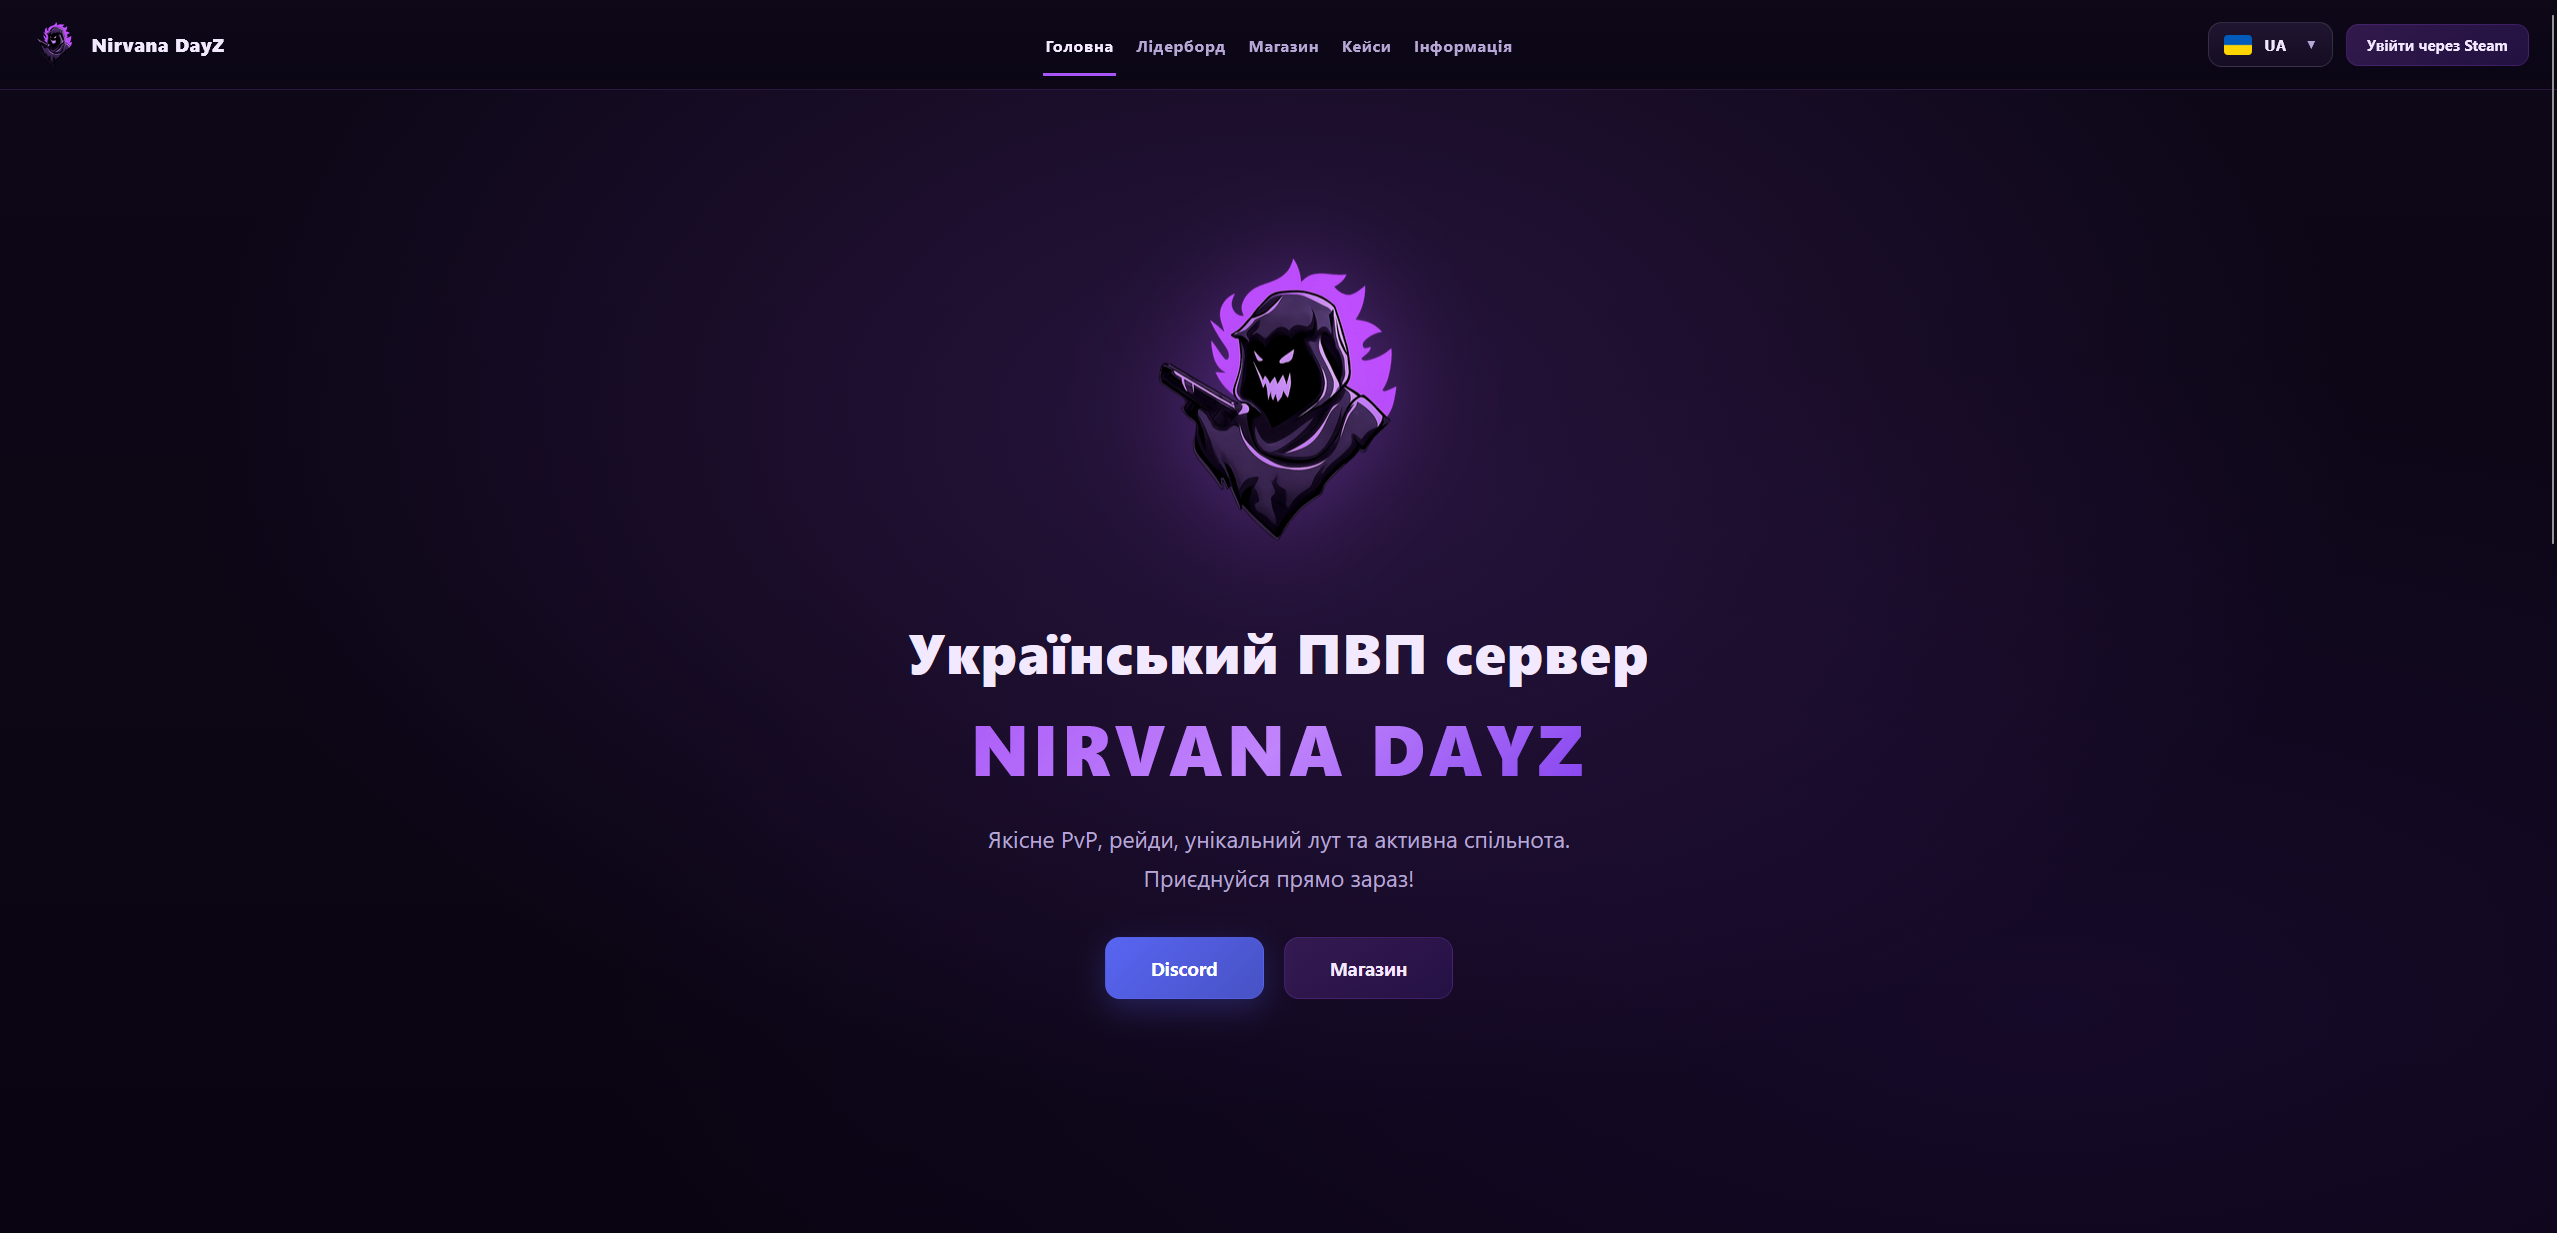
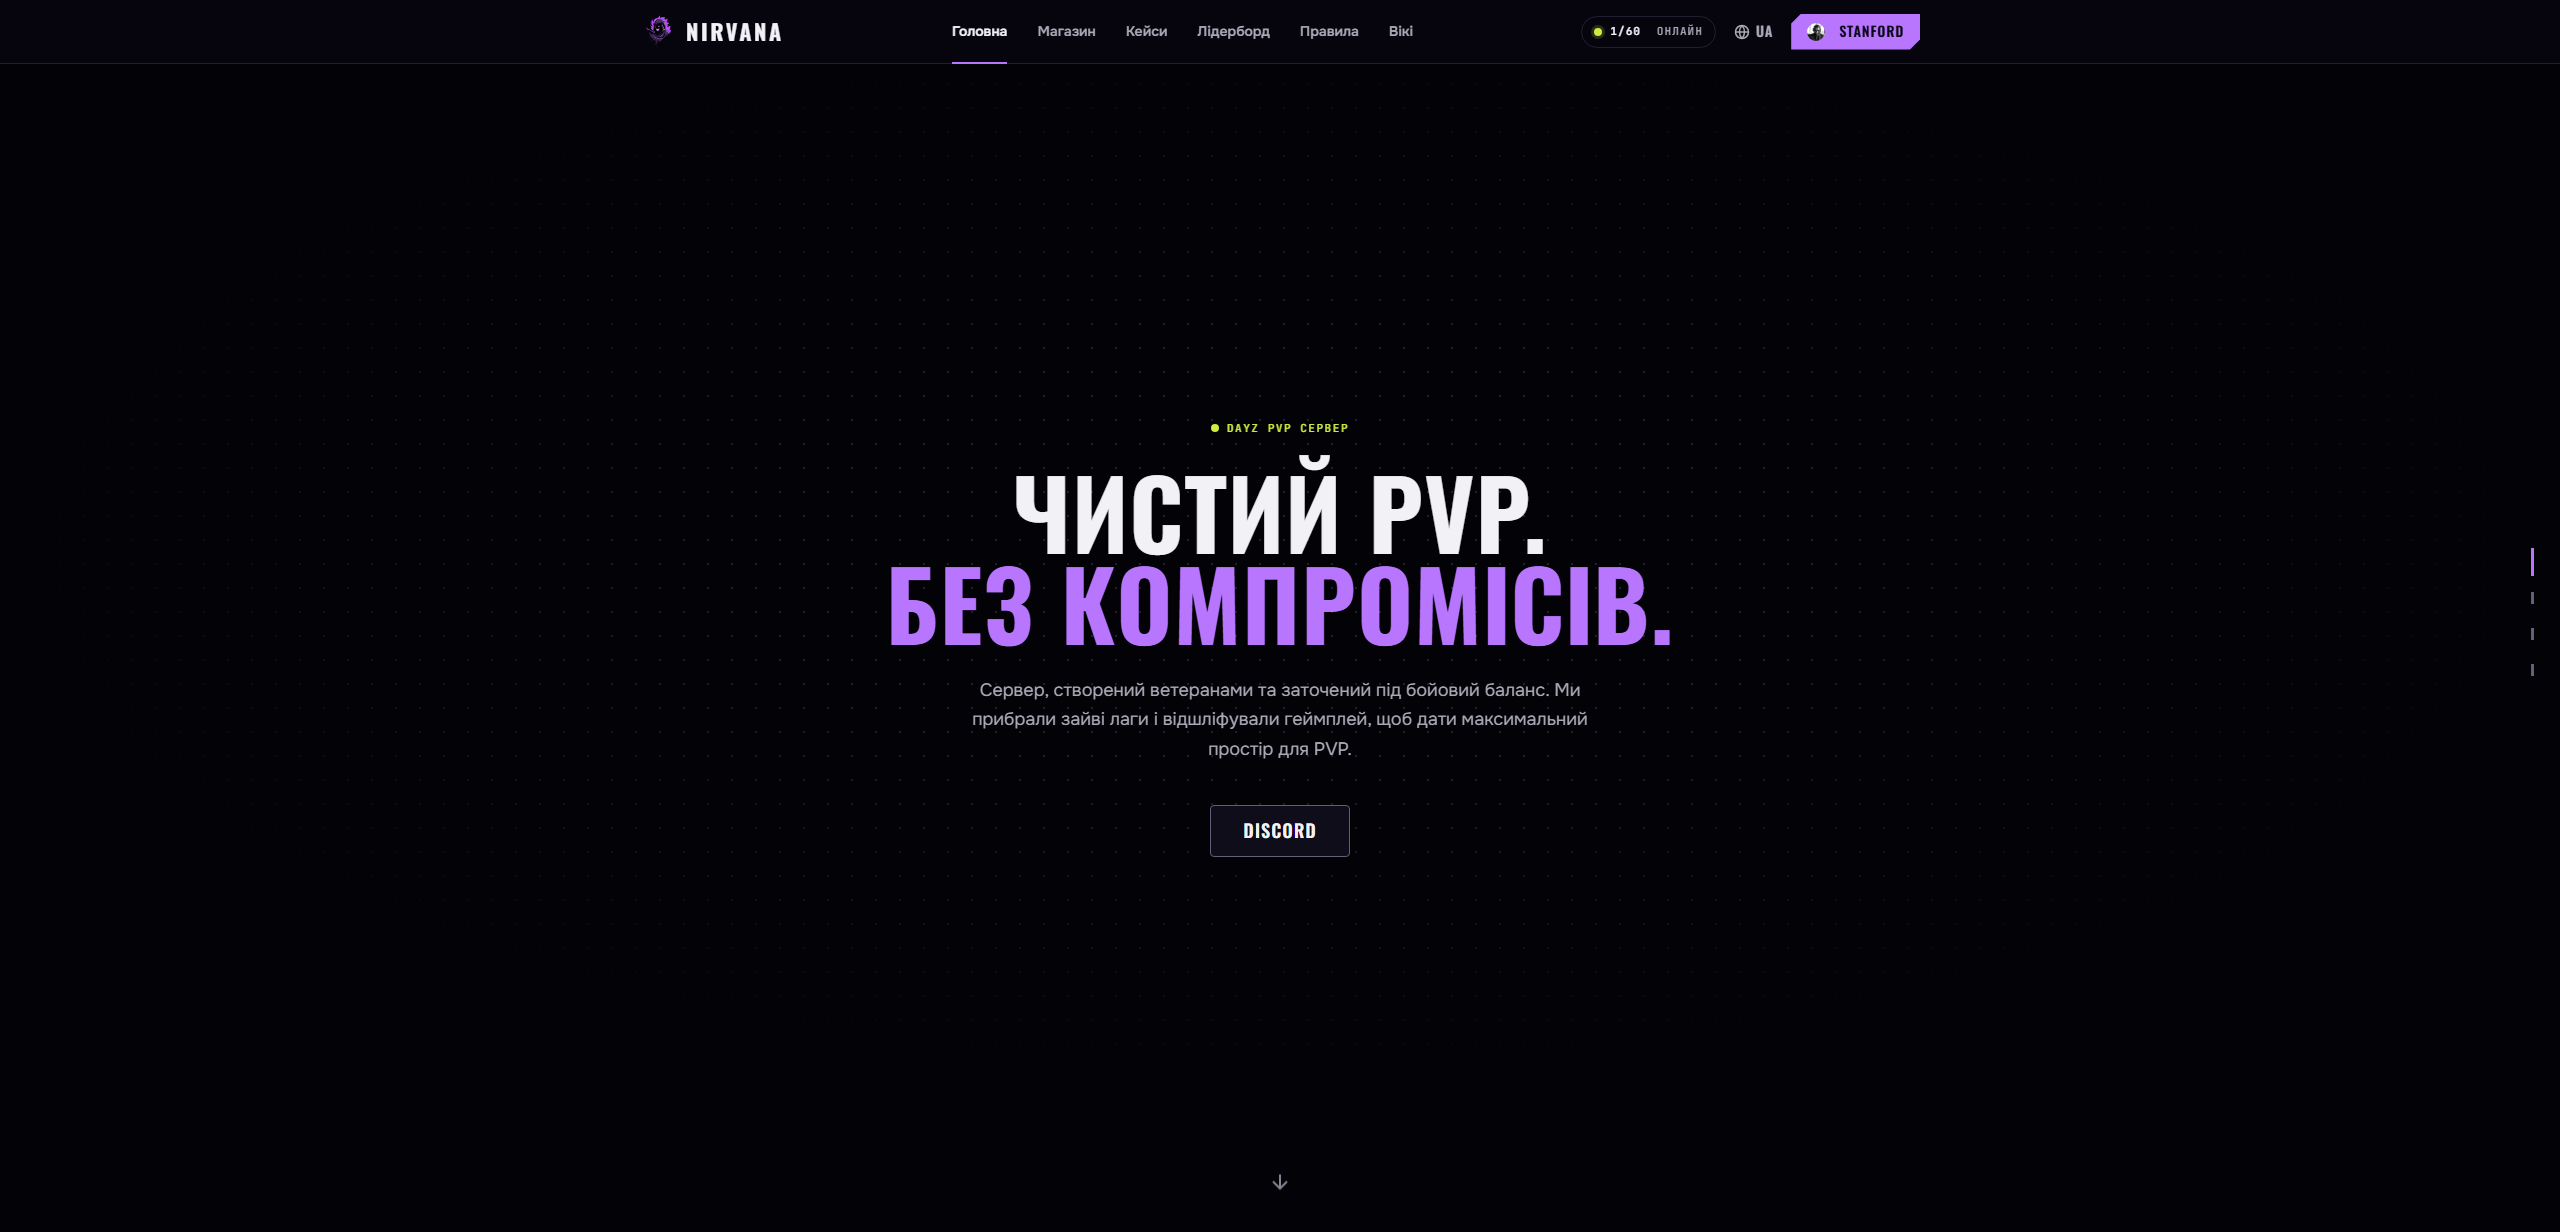
Update screenshots and docs for v1.1.0
- Fresh full-window screenshots of the redesigned site and admin panel (SteamIDs hidden)
- New: store, product checkout, case roulette and reward, account, leaderboards, wiki,
  daily case, JSON templates, channel translation, API key check, page content editor
- README (EN/UA): new site and admin features, channel translation in the bot
- Changelog (EN/UA): v1.1.0

diff --git a/README_ua.md b/README_ua.md
@@ -55,8 +55,18 @@ graph TD
 Нижче секція для демонстрації інтерфейсів.
 
 ### Веб-інтерфейс
-![Web Main 1](docs/web-main-1.png)
-![Web Main 2](docs/web-main-2.png)
+![Головна](docs/web-main-1.png)
+![Головна: лідерборди та живий онлайн](docs/web-main-2.png)
+![Головна: чому варто грати на Nirvana](docs/web-main-3.png)
+![Головна: Discord](docs/web-main-4.png)
+![Магазин](docs/web-shop.png)
+![Магазин: оформлення товару](docs/web-shop-product.png)
+![Кейси](docs/web-cases.png)
+![Рулетка кейсу](docs/web-cases-roulette.png)
+![Виграш з кейсу](docs/web-cases-result.png)
+![Акаунт гравця](docs/web-account.png)
+![Таблиця лідерів](docs/web-leaderboards.png)
+![Вікі](docs/web-wiki.png)
 
 ### Веб-інтерфейс Адмін Панелі
 ![Web Admin Dashboard](docs/web-admin-dashboard.png)
@@ -64,13 +74,16 @@ graph TD
 ![Web Admin Cases Editor](docs/web-admin-cases.png)
 ![Web Admin Players Info Manager](docs/web-admin-players.png)
 ![Web Admin Products Editor](docs/web-admin-products.png)
+![Web Admin JSON Templates](docs/web-admin-templates.png)
 ![Web Admin Categories](docs/web-admin-categories.png)
 ![Web Admin Case Editors](docs/web-admin-case-editors.png)
 ![Web Admin Spawn Kits Editor](docs/web-admin-spawn-kits.png)
 ![Web Admin Promocodes Editor](docs/web-admin-promocodes.png)
 ![Web Admin Sales Editor](docs/web-admin-sales-editor.png)
 ![Web Admin [Payment Methods]](docs/web-admin-payment-methods.png)
-![Web Admin Settings](docs/web-admin-settings.png)
+![Web Admin Переклад каналів](docs/web-admin-translate.png)
+![Web Admin Налаштування та перевірка API-ключів](docs/web-admin-settings.png)
+![Web Admin Контент сторінок (Вікі / Правила)](docs/web-admin-content.png)
 
 ### Веб-інтерфейс Щоденних кейсів
 ![Web Daily Case Feature](docs/web-daily-case-feature.png)
@@ -94,6 +107,8 @@ graph TD
 - Англомовна версія сайту.
 - Відображення статусу серверу.
 - Дошка пошани, там відображаються люди які внесли добровільні пожертви для серверу.
+- Новий дизайн сайту: повноекранні секції головної, магазин з картками та оформленням у дві колонки, рулетка кейсів у стилі CS з плавним гальмуванням і показом виграшу.
+- Сторінки «Вікі» та «Правила» редагуються з адмін-панелі.
 
 ### Функції Discord-бота
 - Бот, який показує онлайн сервера, серверний час та час до наступного рестарту.
@@ -103,6 +118,12 @@ graph TD
 - Discord-магазин, що має спільні товари з веб-магазином.
 - Автоматичне привітання користувачів та автоматичні ролі.
 - Кіл-фід з налаштовуваним текстом.
+- Зв'язки каналів для перекладу: обираєш 2+ Discord-канали з мовою для кожного, і кожне повідомлення перекладається в інші (Gemini, резерв — DeepL і Google Translate).
+
+### Функції адмін-панелі
+- Вибір каналів і ролей зі списку, який бот сам передає з Discord (токен бота на сайт не потрапляє).
+- Перевірка API-ключів в один клік: сайт по-справжньому звертається до кожного сервісу (Gemini, DeepL, Google Translate, Monobank, Donatello, CFTools) і показує, що працює, а що ні й чому.
+- Статус останнього перекладу прямо в панелі, без читання логів.
 
 ## Модулі екосистеми
 

diff --git a/README.md b/README.md
@@ -56,8 +56,18 @@ Below is a section for demonstrating interfaces.
 
 ### Web Interface
 
-![Web Main 1](docs/web-main-1.png)
-![Web Main 2](docs/web-main-2.png)
+![Home](docs/web-main-1.png)
+![Home: Leaderboards and Live Stats](docs/web-main-2.png)
+![Home: Why Play on Nirvana](docs/web-main-3.png)
+![Home: Discord](docs/web-main-4.png)
+![Store](docs/web-shop.png)
+![Store: Product Checkout](docs/web-shop-product.png)
+![Cases](docs/web-cases.png)
+![Case Roulette](docs/web-cases-roulette.png)
+![Case Reward](docs/web-cases-result.png)
+![Player Account](docs/web-account.png)
+![Leaderboards](docs/web-leaderboards.png)
+![Wiki](docs/web-wiki.png)
 
 ### Web Interface of Admin Panel
 ![Web Admin Dashboard](docs/web-admin-dashboard.png)
@@ -65,13 +75,16 @@ Below is a section for demonstrating interfaces.
 ![Web Admin Cases Editor](docs/web-admin-cases.png)
 ![Web Admin Players Info Manager](docs/web-admin-players.png)
 ![Web Admin Products Editor](docs/web-admin-products.png)
+![Web Admin JSON Templates](docs/web-admin-templates.png)
 ![Web Admin Categories](docs/web-admin-categories.png)
 ![Web Admin Case Editors](docs/web-admin-case-editors.png)
 ![Web Admin Spawn Kits Editor](docs/web-admin-spawn-kits.png)
 ![Web Admin Promocodes Editor](docs/web-admin-promocodes.png)
 ![Web Admin Sales Editor](docs/web-admin-sales-editor.png)
 ![Web Admin [Payment Methods]](docs/web-admin-payment-methods.png)
-![Web Admin Settings](docs/web-admin-settings.png)
+![Web Admin Channel Translation](docs/web-admin-translate.png)
+![Web Admin Settings and API Key Check](docs/web-admin-settings.png)
+![Web Admin Page Content (Wiki / Rules)](docs/web-admin-content.png)
 
 ### Web Interface of Daily Cases
 ![Web Daily Case Feature](docs/web-daily-case-feature.png)
@@ -95,6 +108,8 @@ Below is a section for demonstrating interfaces.
 - English-language version of the site.
 - Server status display.
 - Hall of fame showing people who made voluntary donations to the server.
+- Redesigned site: full-screen home sections, a card-style store with a two-column checkout, and a CS-style case roulette with smooth slow-down and reward reveal.
+- Wiki and rules pages edited from the admin panel.
 
 ### Discord bot features
 - Bot that shows server online, server time and time to next restart.
@@ -104,6 +119,12 @@ Below is a section for demonstrating interfaces.
 - Discord shop, sharing same products with web-site shop.
 - Automated greeting to users and automated roles.
 - Kill-feed with Manageable text.
+- Channel translation links: pick 2+ Discord channels with a language each, and every message is translated into the others (Gemini, with DeepL and Google Translate as fallbacks).
+
+### Admin panel features
+- Channel and role pickers filled with live data from Discord (the bot publishes its servers, channels and roles; no bot token on the website).
+- One-click API key check: every provider (Gemini, DeepL, Google Translate, Monobank, Donatello, CFTools) is called for real and the panel shows what works and why not.
+- Status of the last translation right in the panel, so failures don't need a trip to the logs.
 
 ## Ecosystem Modules
 

diff --git a/CHANGELOG_ua_.md b/CHANGELOG_ua_.md
@@ -67,3 +67,23 @@
 
 ## Виправлення
 - Кілфід: самогубство через F11 тепер коректно записується
+
+----------------------------------------------------------------------------------------------------------
+
+# v1.1.0
+## Релізовано
+- !!Новий дизайн сайту: повноекранні секції головної, магазин з картками та оформленням у дві колонки, оновлені сторінки акаунту, лідерборду та вікі
+- !!Новий вигляд рулетки кейсів: картки з фото та кольором рідкості, плавне гальмування, випадкова зупинка всередині виграшної картки й показ виграшу
+- !!Зв'язки каналів для перекладу в адмін-панелі: обираєш 2+ канали з мовою для кожного, переклад іде в усі боки
+- Вибір каналів і ролей Discord зі списку в адмін-панелі (бот сам передає свої сервери, канали й ролі у спільну базу)
+- Перевірка API-ключів в один клік: Gemini, DeepL, Google Translate, Monobank, Donatello, CFTools
+- Статус останнього перекладу в адмін-панелі
+- Gemini тепер використовує завжди актуальну модель і повторює запит при тимчасовому перевантаженні
+
+## Виправлення
+- Магазин: один клік «Купити» відправляв два запити на покупку, а в списку оплат був вимкнений PayPal
+- Магазин: покупцю більше не показуються службові поля (файл шаблону, тип видачі)
+- Адмін-панель: збереження налаштувань бота більше не псує ID каналів Discord
+- Переклад: ключ Gemini з конфігу ніколи не застосовувався, тож усі повідомлення тихо йшли через резервний перекладач
+- Сайт: у верхній панелі більше не з'являється SteamID замість імені, коли Steam обмежує запити (профілі кешуються)
+- Безпека: порожній список адмінів більше не дає доступ кожному, хто увійшов через Steam; прибрано старий шлях до адмінки, що обходив прихований

diff --git a/CHANGELOG.md b/CHANGELOG.md
@@ -66,3 +66,23 @@
 
 ## Bug Fixes
 - Killfeed: suicide via F11 is now recorded correctly
+
+----------------------------------------------------------------------------------------------------------
+
+# v1.1.0
+## Implemented
+- !!New website design: full-screen home sections, a card-style store with a two-column checkout, redesigned account, leaderboard and wiki pages
+- !!Case roulette redesign: picture cards with rarity colours, smooth slow-down, random landing inside the winning card and a reward reveal
+- !!Channel translation links in the admin panel: pick 2+ channels with a language each, messages are translated in every direction
+- Live Discord channel and role pickers in the admin panel (the bot publishes its servers, channels and roles to the shared database)
+- One-click API key check for Gemini, DeepL, Google Translate, Monobank, Donatello and CFTools
+- Status of the last translation shown in the admin panel
+- Gemini now uses an always-current model alias and retries once on temporary overload
+
+## Bug Fixes
+- Store: one click on "Buy" sent two purchase requests, and a disabled payment method (PayPal) was offered
+- Store: internal fields (template file, delivery type) are no longer shown to buyers
+- Admin panel: saving bot settings no longer corrupts Discord channel IDs
+- Translation: the Gemini key from the config was never applied, so every message silently went to the fallback translator
+- Website: the top bar no longer shows a raw SteamID when Steam throttles profile requests (profiles are cached)
+- Security: an empty admin list no longer gives admin access to every Steam login; the legacy admin URL that bypassed the hidden path was removed
